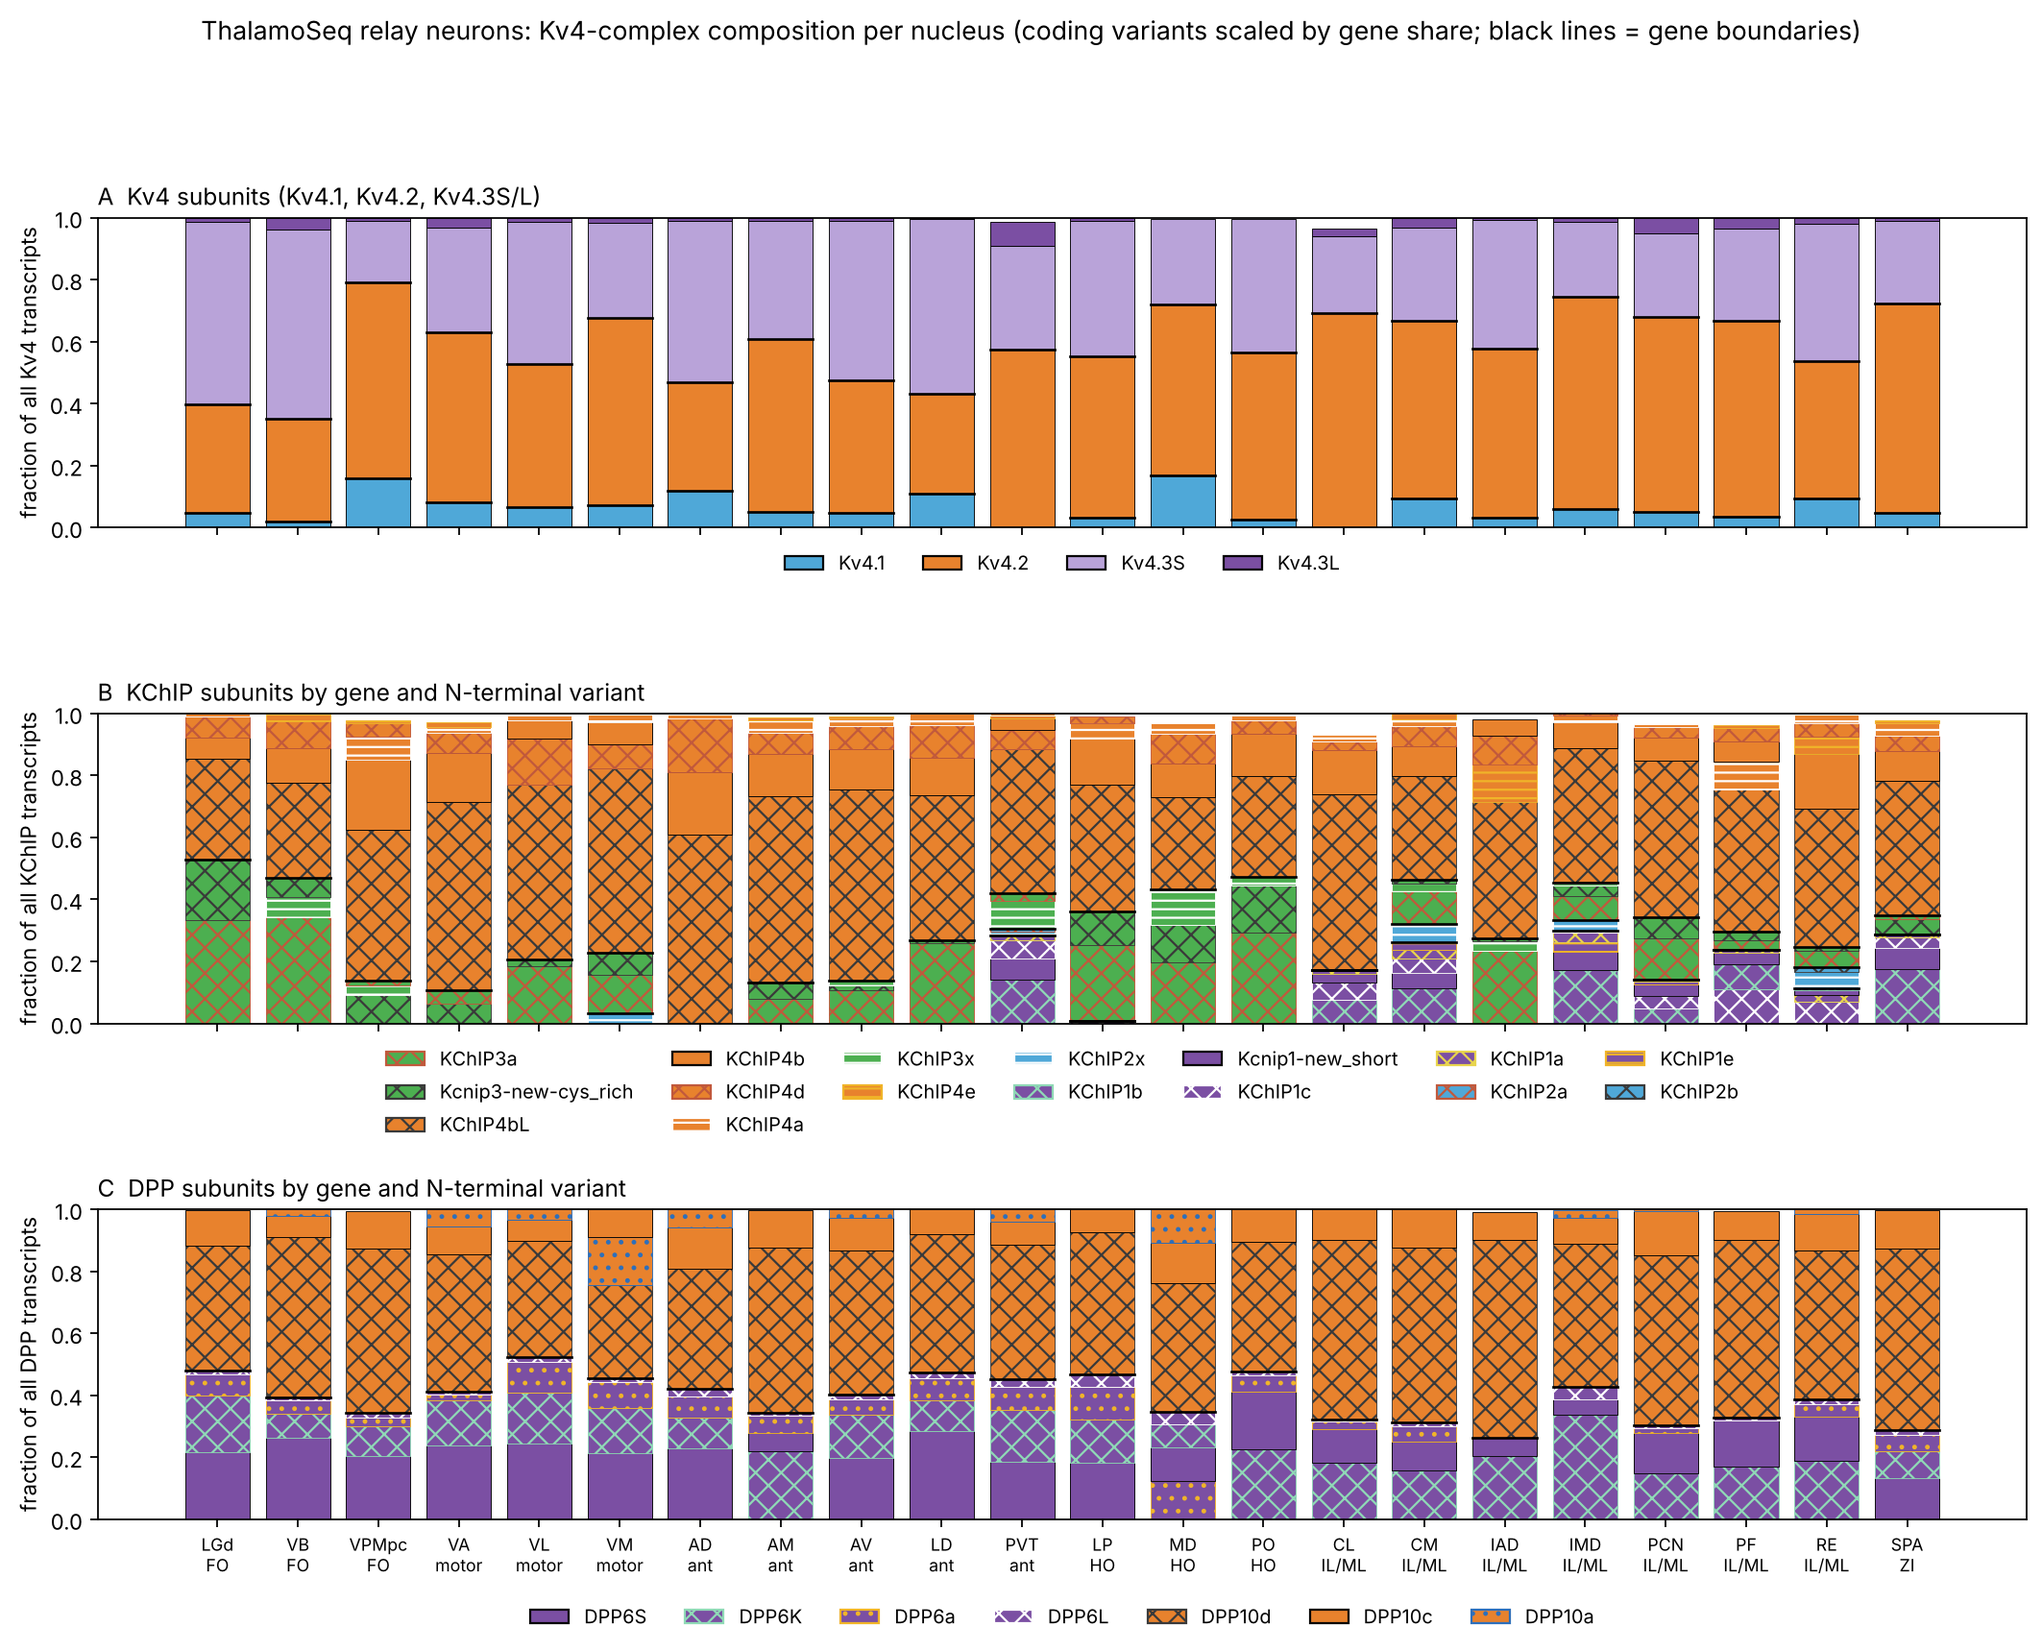
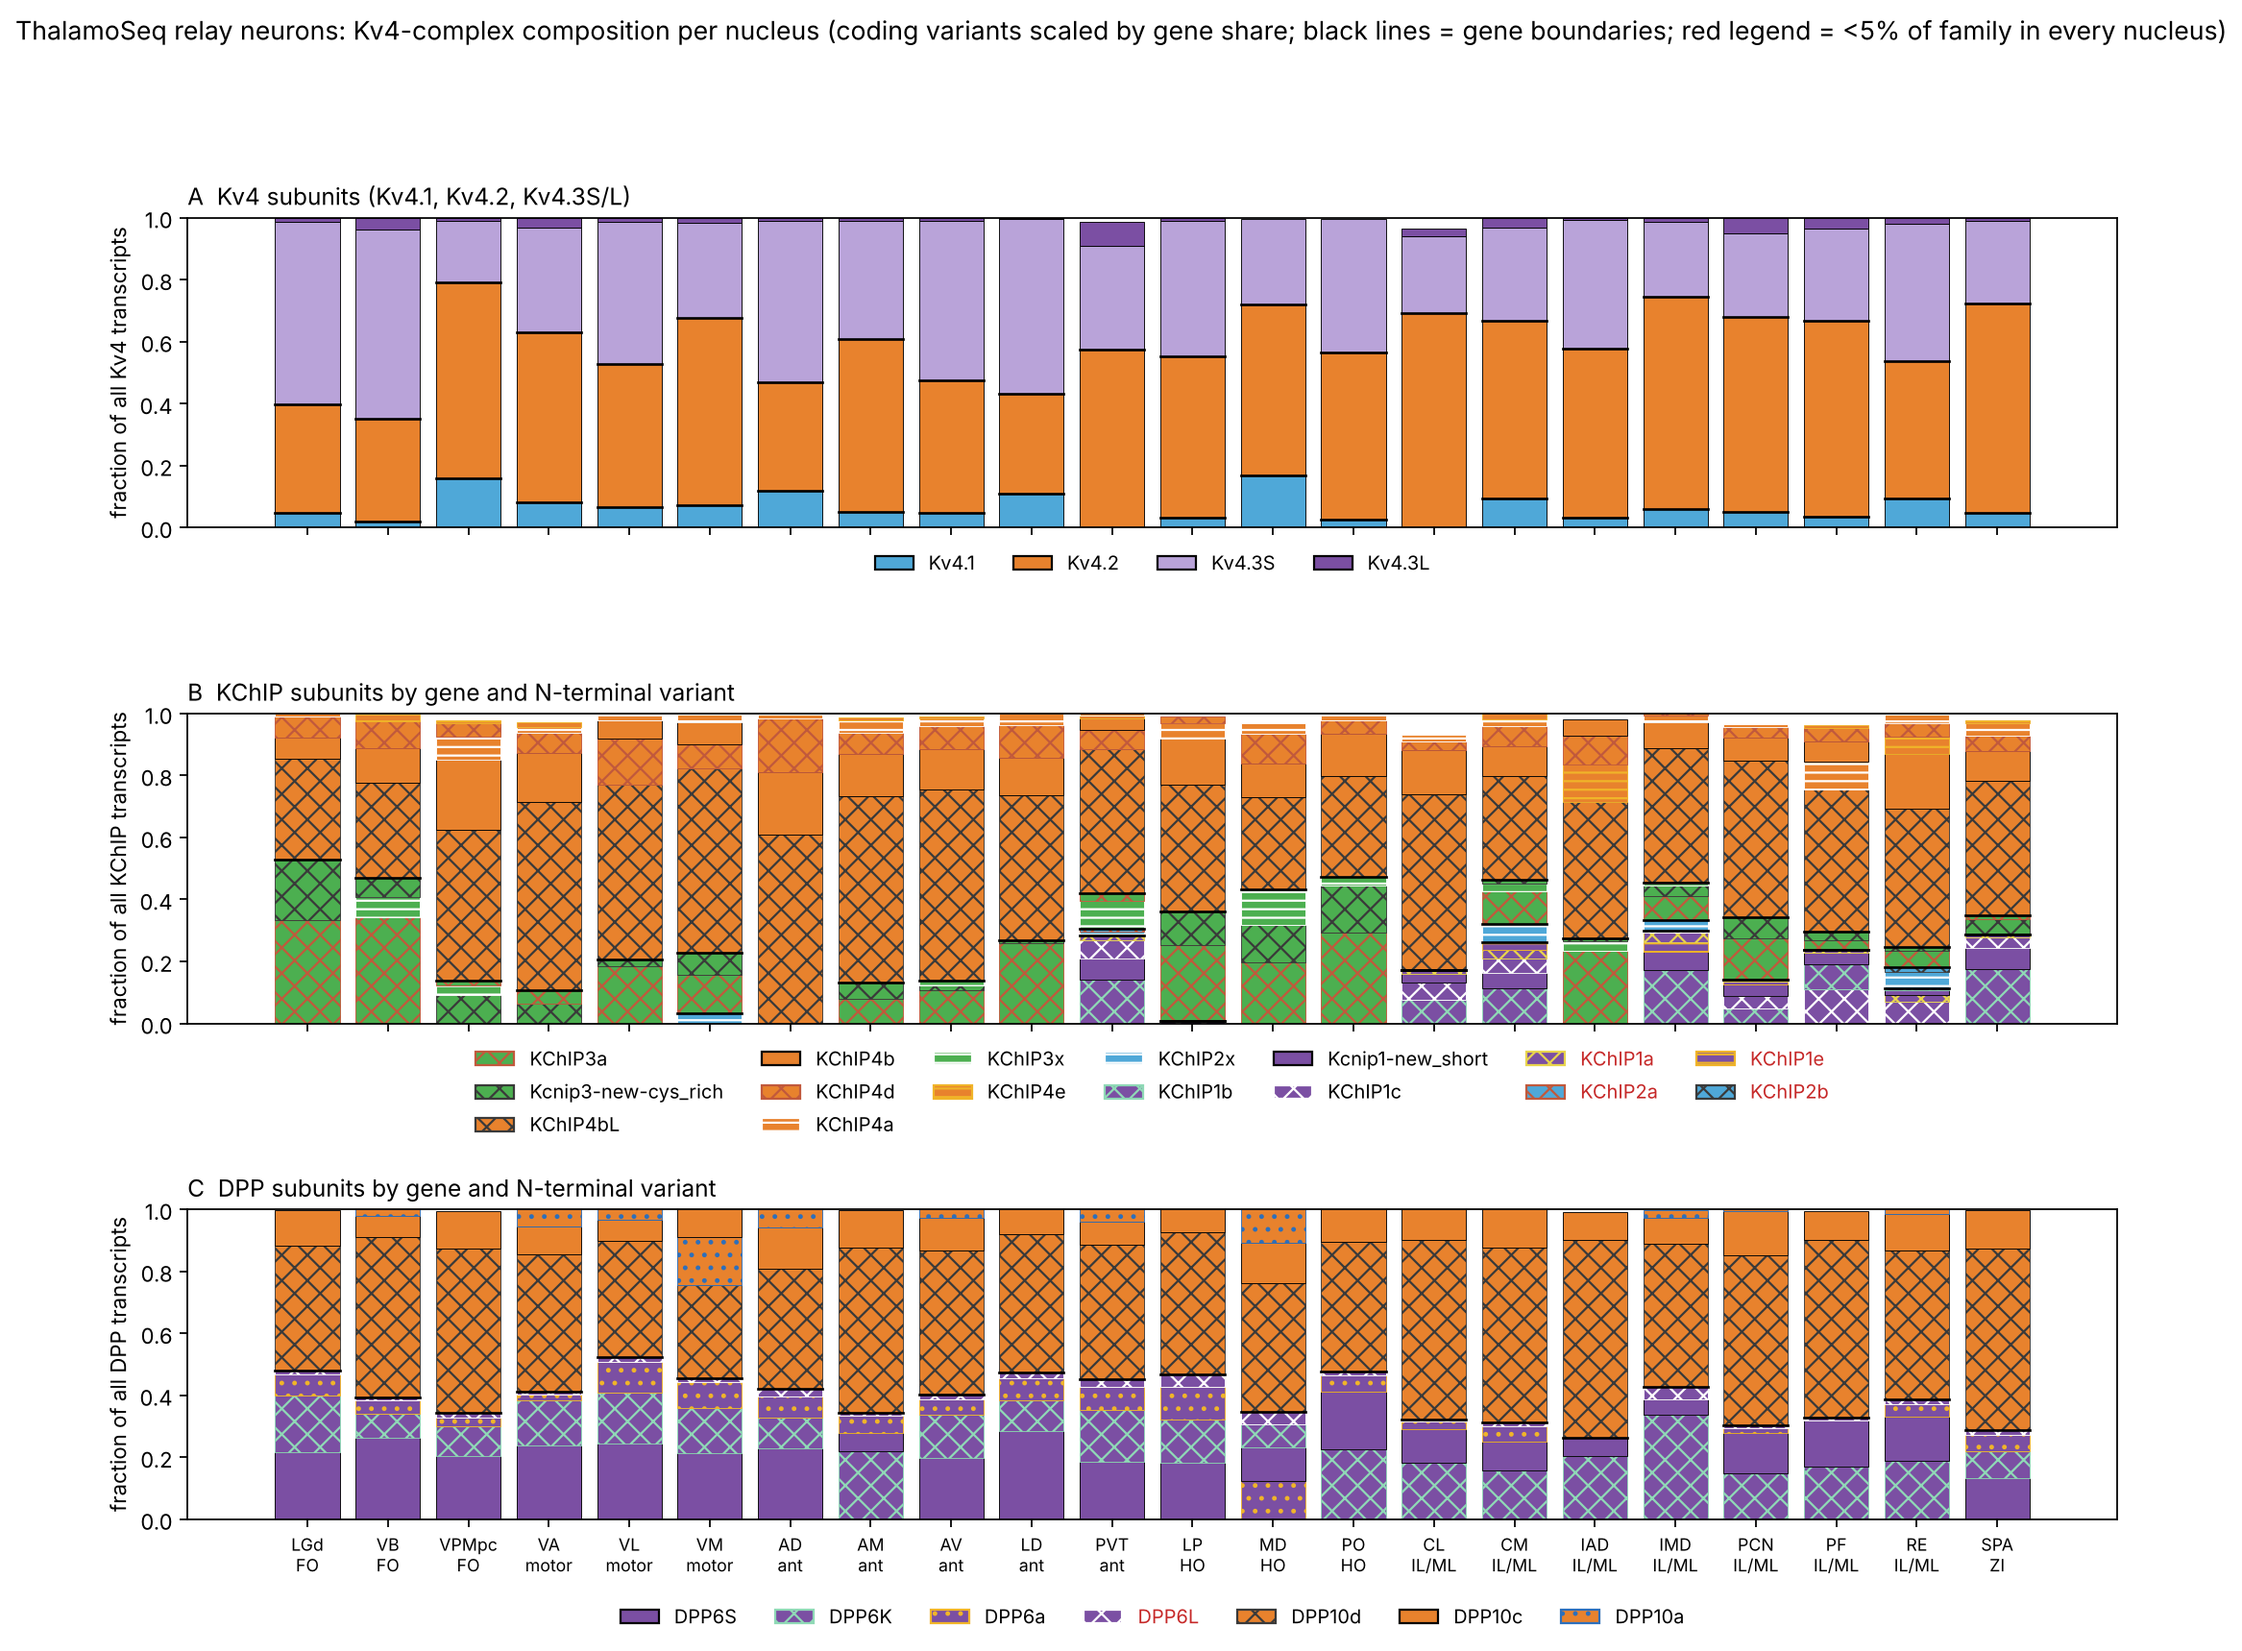
Family composition figure: legend entries red for variants <5% of family in every nucleus
Claude-Session: https://claude.ai/code/session_01LyLqBU1JBtmoS9Pe1mdPxR

diff --git a/thalamus/thalamoseq_variants.py b/thalamus/thalamoseq_variants.py
@@ -194,9 +194,19 @@ for ax, fam in zip(axes, FAM):
                 ax.plot([i - 0.4, i + 0.4], [b, b], color='k', lw=1.2)   # gene boundary
     ax.set_ylim(0, 1); ax.set_ylabel(f'fraction of all {fam} transcripts', fontsize=10)
     ax.set_title({'Kv4': 'A  Kv4 subunits (Kv4.1, Kv4.2, Kv4.3S/L)', 'KChIP': 'B  KChIP subunits by gene and N-terminal variant', 'DPP': 'C  DPP subunits by gene and N-terminal variant'}[fam], loc='left', fontsize=11)
-    ax.legend(handles.values(), handles.keys(), fontsize=9, frameon=False, loc='upper center', bbox_to_anchor=(0.5, -0.22 if fam == 'DPP' else -0.02), ncol=min(len(handles), 7))
+    # variants that never reach 5% of the family in any nucleus: legend text in red
+    fmax = F[F.family == fam].groupby('vclass').fam_frac.max()
+    single = {g.replace('Kcnd', 'Kv4.'): g for g in ('Kcnd1', 'Kcnd2')}
+    def _max(lab):
+        if lab in single:
+            return F[(F.family == fam) & (F.gene == single[lab])].fam_frac.max()
+        return fmax.get(lab, 0.0)
+    leg = ax.legend(handles.values(), handles.keys(), fontsize=9, frameon=False, loc='upper center', bbox_to_anchor=(0.5, -0.22 if fam == 'DPP' else -0.02), ncol=min(len(handles), 7))
+    for txt in leg.get_texts():
+        if _max(txt.get_text()) < 0.05:
+            txt.set_color('#C62828')
 axes[-1].set_xticks(range(len(nuc_order))); axes[-1].set_xticklabels([f'{n}\n{SHORT.get(S.loc[n, "loop_group"], "")}' for n in nuc_order], fontsize=8)
-fig.suptitle('ThalamoSeq relay neurons: Kv4-complex composition per nucleus (coding variants scaled by gene share; black lines = gene boundaries)', y=1.0)
+fig.suptitle('ThalamoSeq relay neurons: Kv4-complex composition per nucleus (coding variants scaled by gene share; black lines = gene boundaries; red legend = <5% of family in every nucleus)', y=1.0)
 fig.subplots_adjust(hspace=0.6)
 fig.savefig(f'{args.out}/figures/thalamoseq_family_composition.png', dpi=160, bbox_inches='tight'); plt.close(fig)
 print('\nwrote figures/thalamoseq_family_composition.png')
